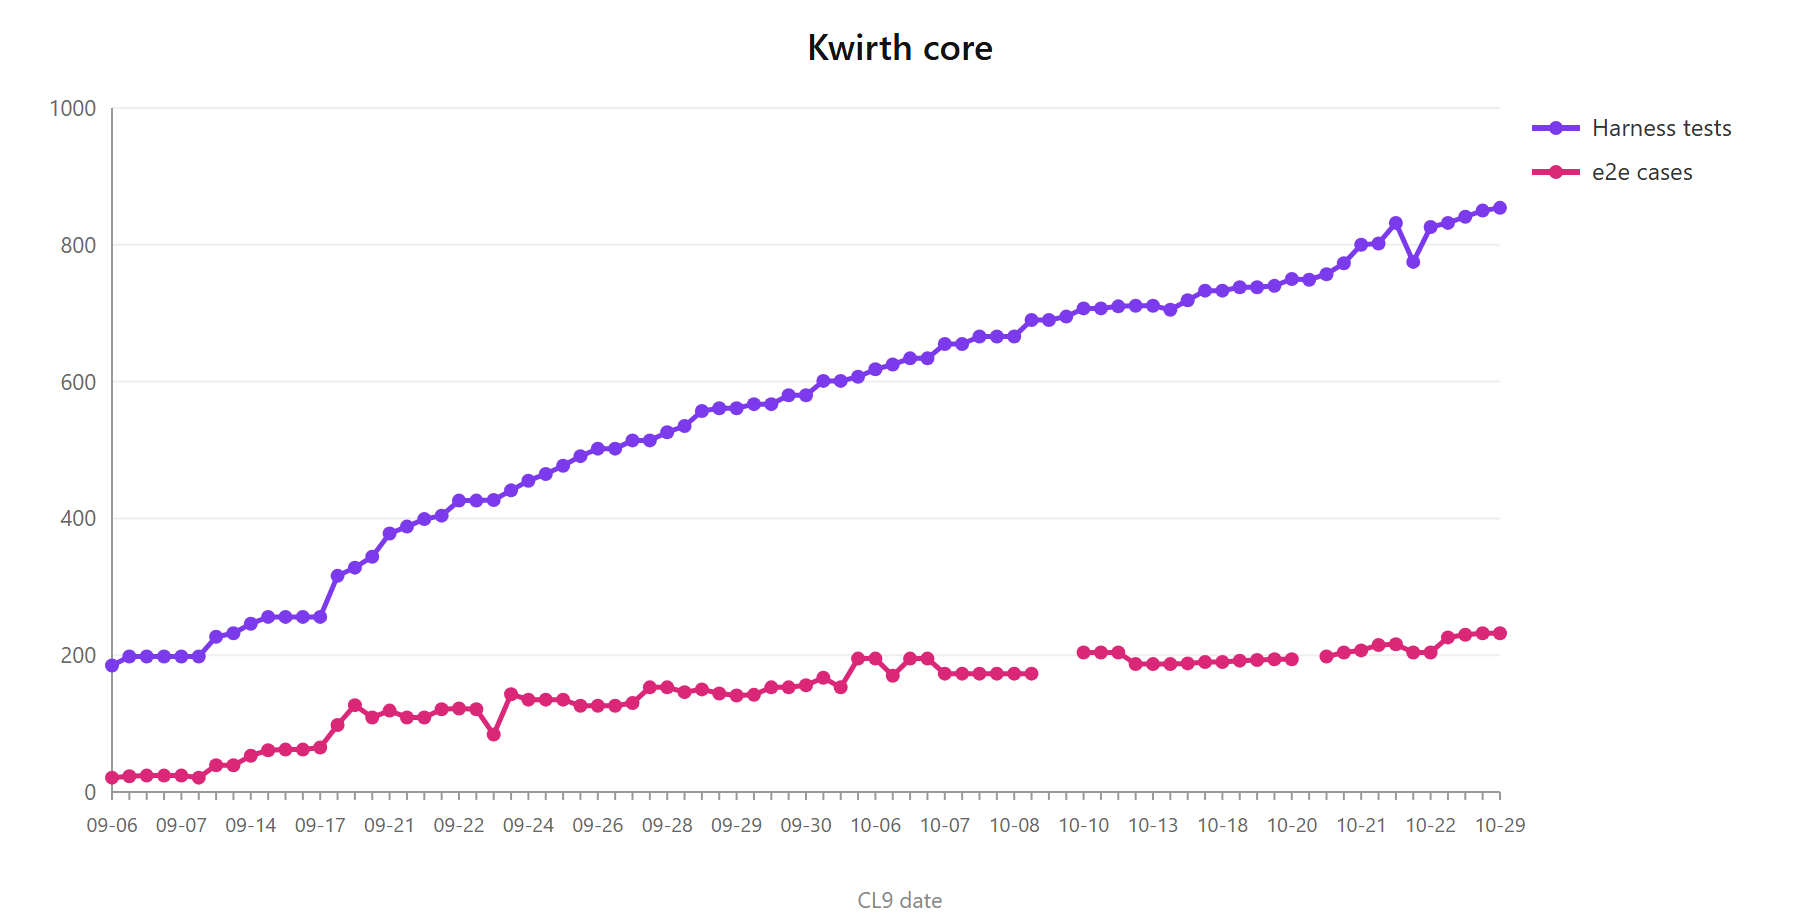
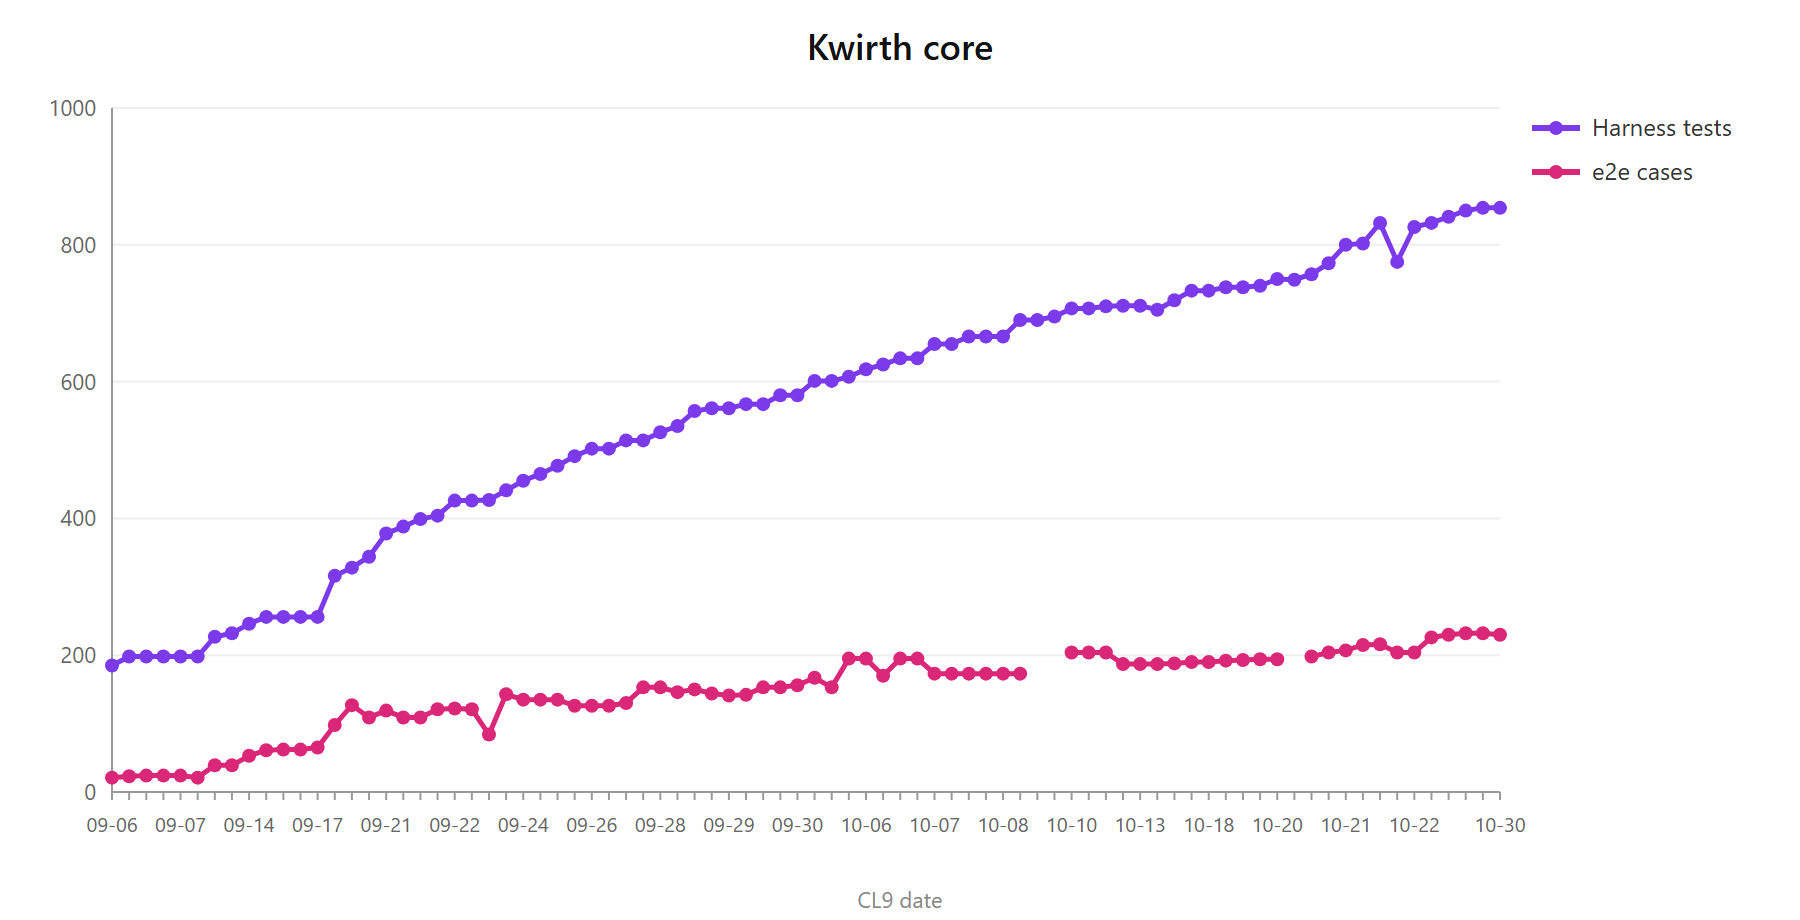
docs(qa): la fila del CL9 y los dos PNG
De 1,7 h a 37,5 min, 201 casos ejecutados, 0 fallos y 0 sin ejecutar (eran 12).
60 specs y 230 casos: los dos que faltan son los de webhooks, que se fueron al
repo de su artefacto.

La nota es el exit code que mentia: un describe.serial cuyo primer test falla por
una precondicion del entorno deja los demas en 'did not run', y eso no cuenta
como fallo. Faltaban diez extensiones en kwirth-dev.json y seis ficheros enteros
—42 casos— no se ejecutaban nunca.

En pendientes, los tres flaky de esta corrida: broken-extension, cluster-flavour
y el primer test de nettools-channel. Pasan en el reintento y no estan
explicados; anotados, que un flaky callado es una trampa para el siguiente.

diff --git a/docs/qa/test-metrics-history.md b/docs/qa/test-metrics-history.md
@@ -21,6 +21,14 @@
 
 ## Pendiente sobre la propia suite
 
+- **Tres flaky en la corrida del e2e con sesión compartida** (2026-10-30): `broken-extension`,
+  `cluster-flavour` y el primer test de `nettools-channel` fallan el primer intento y pasan el
+  reintento. No son rojos —la corrida sale con exit 0— pero tampoco están explicados, y aparecen justo
+  en la primera corrida con la página compartida entre ficheros, así que lo primero que hay que
+  descartar es que sea eso: los tres se ejecutan después de otros, y `broken-extension` y
+  `cluster-flavour` son de los que abren su **propia** página, lo que apuntaría más bien a carga de la
+  máquina que a contaminación. El de `nettools` cae en el click sobre el último combobox del diálogo de
+  ADD, que es el que repinta con cada elección.
 - ~~**`help-popup` falla en la corrida completa y pasa en solitario.**~~ 🔴 **Atribuido a la causa
   equivocada durante semanas.** Se dio por contaminación entre tests —estado que deja un spec anterior—
   y lo que había era que **`login()` esperaba un rato FIJO**: un `waitForTimeout(1500)` tras pulsar OK.
@@ -30,8 +38,12 @@
   ahí y no en solitario — de donde salió la teoría de la contaminación.
   **Corregido el 2026-10-29**: `login()` espera a que la barra superior exista y a `networkidle`, y
   `openMenu`/`clickMenuItem`/`clickExtensionMenuItem` esperan a que el elemento esté visible y
-  habilitado con un minuto de margen. ⚠ **No está confirmado en una corrida completa**: se verificó con
-  `help-popup` + 2 specs, no con los 62. Queda por comprobar si los dos de abajo eran lo mismo.
+  habilitado con un minuto de margen. ✅ **Confirmado en corrida completa el 2026-10-30**: `help-popup`
+  pasa con los 62 por primera vez de lo que hay registrado. Los dos de abajo son del **harness del
+  back**, así que no eran lo mismo y siguen abiertos.
+  **Y faltaba la otra mitad (2026-10-30)**: se arregló el FINAL de `login()` y el principio se quedó con
+  los 15 s por defecto, así que el `fill` del campo *User* reventaba antes de que el diálogo existiera y
+  se llevaba el `beforeAll` —y con él, el fichero entero—. Ahora espera a que el campo esté.
 - **`webhookManager` › *tokens + configs survive a restart* falla A VECES en la corrida completa y pasa
   siempre en solitario** (visto el 2026-09-17, 4 pasadas sueltas en verde). Se anotó como «mismo patrón
   que `help-popup`: estado que deja otro test antes», y ahora que `help-popup` resultó ser **otra cosa**
@@ -63,10 +75,35 @@
   —; **(b)** extensiones que este dev no tiene instaladas: `config-bundle` (censor), `dce-api`,
   `dce-manager`, `dce-nettools`, `dce-xyflow`, `nettools-channel`, `idp-manager`, `webhooks`,
   `webhooks-manager` (jira), `broken-extension` (provider-debug). Para la (b) toca `test.skip()` con el
-  motivo cuando falte la extensión, no un `if`. Sin arreglar.
-- **La suite completa tarda ~15 minutos** (51 el 2026-10-11, con los timeouts de los rojos), y Playwright no
-  vuelca nada hasta el final, así que no se puede seguir el avance. Demasiado para usarla dentro del ciclo de
-  trabajo: hoy se acaba corriendo por grupos.
+  motivo cuando falte la extensión, no un `if`. ~~Sin arreglar.~~ **HECHO 2026-10-30, por el otro
+  camino**: en vez de saltarlas, se **instalan**. Un `test.skip()` deja el caso sin comprobar para
+  siempre en el único entorno donde se corre la suite, que es este; y el diagnóstico de 2026-10-11 ya
+  nombraba las mismas extensiones que seguían faltando dieciocho días después. Van al `kwirth-dev.json`
+  las diez que la suite necesita. Lo que **sí** queda como `test.skip()` es lo que depende de qué tenga
+  instalado *quien* corra la suite, no de qué necesita el test.
+- 🔴 **El exit code MENTÍA: 42 tests no se ejecutaban y la suite decía que todo bien** (visto el
+  2026-10-30). Un `describe.serial` cuya primera comprobación falla por una **precondición de entorno**
+  —*«censor debería estar instalado en el dev»*, *«the sample DCE must be installed»*— se lleva por
+  delante a todos los de detrás, que quedan como *did not run* y **no cuentan como fallo**. Un tercio
+  largo de la suite llevaba sin ejecutarse quién sabe cuánto. Corregido instalando lo que faltaba (ver
+  arriba), pero **el agujero sigue ahí**: la suite no avisa de que no se ha ejecutado. Conviene que el
+  cierre mire `did not run`, no solo `failed`.
+- ⚠ **Los dos specs de webhooks del repo PÚBLICO prueban artefactos de PAGO** (visto el 2026-10-30).
+  `webhooks.spec.ts` y `webhooks-manager.spec.ts` buscan *Jira Webhook*, y los dos únicos webhooks que
+  existen son `@iriaoperae/kwirth-webhook-jira` y `@iriaoperae/kwirth-webhook-gitlab-issues`, con el
+  manifest público (`webhooks/manifest.json`) a `[]`. Es el mismo problema que tuvo `kwirth-portability`,
+  del revés: lo de cada artefacto de pago vive en el repo de ese artefacto. De paso, el `displayName` ya
+  no es el que el spec busca: es *IRIA Jira Webhook*. **Sin decidir.**
+- **`extension-catalogs` empezó a fallar al instalar el webhook jira** (2026-10-30), con *«Webhooks: no
+  catalog entries»*. No estaba entre los rojos de la corrida anterior, así que no basta con decir que el
+  manifest público está vacío — algo cambió al añadirlo. **Sin diagnosticar.**
+- **`pinocchio-toolsets` y `nettools-channel`** quedan sin diagnóstico cerrado (2026-10-30). El segundo
+  mejoró al dar su propio plazo a `pickCombo`; el primero encadena `waitForTimeout` fijos (800, 1500,
+  4000 ms), que es el mismo antipatrón que causó lo de `login()` y acabará dando el mismo problema.
+- ~~**La suite completa tarda ~15 minutos**~~ **1,7 h el 2026-10-30** (51 min el 2026-10-11 y 59 min el
+  2026-10-29), y crece con cada extensión que se instala en el dev: el arranque de la aplicación se paga
+  una vez por fichero. Ya no es una herramienta del ciclo de trabajo, es una corrida de cierre. Lo que sí
+  se arregló es poder seguirla: va a `front/e2e/run.log` con `--reporter=list`, escribiendo por test.
 - ~~**Ningún spec regenera capturas sin querer.**~~ **HECHO 2026-09-07:** `capture-*.spec.ts` queda fuera de
   la corrida por defecto (`testIgnore`), como los privados. Escribían en `docs/_media/guide`, así que cada
   corrida completa modificaba imágenes de la guía sin que nadie lo pidiera; pasó dos veces en un mismo día
@@ -74,6 +111,7 @@
 
 | Fecha | Cierre | Harness | Cobertura (líneas / ramas / funcs) | e2e | Notas |
 |---|---|---|---|---|---|
+| 2026-10-30 | **La suite se arreglaba a sí misma**: una sesión para toda la corrida, el dev con lo que la suite necesita, y los rojos que eso destapó | **854** ✅ (850 pasan · 4 ⏭ · 0 ✗), sin cambios: no se tocó una línea del back | **86.71 % / 82.96 % / 83.33 %** (= / −0.02 / =) — el back está igual; la décima de ramas es ruido de qué módulos carga el harness | **60 specs · 230 casos** (−2 specs, −2 casos): los dos de webhooks se van al repo del artefacto de pago. La corrida pasa de **1,7 h a 37,5 min** y de **177 a 201** casos ejecutados, con **0 fallos** y **0 sin ejecutar** (eran 12) | 🔴 **El exit code MENTÍA: 42 tests no se ejecutaban y la suite decía que todo bien.** Un `describe.serial` cuyo primer test falla por una precondición del entorno deja los demás en `did not run`, y eso **no cuenta como fallo**: faltaban diez extensiones en `back/kwirth-dev.json` (censor, pinocchio, nettools, provider-debug, el provider business, el webhook jira, los dos logins, dos DCE y los docs de pinocchio) y seis ficheros enteros no corrían nunca. Añadidas, aparecieron los rojos que llevaban meses tapados. 🔴 **Y la mitad de la corrida era arrancar la misma aplicación una y otra vez**: cargar el bundle de CRA, el login y esperar a `networkidle` cuesta 45-60 s y crece con cada extensión instalada, y se pagaba **por fichero**. Un fixture de ámbito `worker` (`tests/fixtures.ts`) la arranca **una vez** y la heredan los 17 specs que pueden; los que prueban el propio arranque, los que entran por otra URL y los que espían las peticiones iniciales siguen abriendo la suya, y eso está escrito en el fixture con el motivo de cada uno. El `limpia` automático que usa montag **no transfiere**: media docena de gestores del core abren su diálogo en el `beforeAll` y lo recorren a lo largo de varios tests, así que un barrido por test les cierra en la cara lo que están mirando — la limpieza vive en el `afterAll` de cada fichero. 📌 Cuatro rojos, y **ninguno era del producto**: `nettools` clicaba un cluster `aria-disabled` (el stack ECS, parado) y agotaba el plazo contra algo que no iba a habilitarse; `pinocchio-toolsets` daba por hecho que el entorno ya tenía triggers configurados —ahora crea el suyo y sale por Cancel— y además denunciaba `get_workload_config_refs` como ofrecida sin estarlo, porque el nombre aparece **dentro de la descripción** de `get_rollout_history`; y `extension-catalogs` buscaba un botón rotulado «Install», que es lo que dice el tooltip **solo si la entrada es instalable** — con los dos webhooks montados desde dev el diálogo pintaba sus tarjetas y el test decía que no había catálogo. Ahora la tarjeta se busca por el **icono** del botón y el catálogo se contrasta con lo que resuelve `/core/marketplace/<tipo>`, que distingue un manifest vacío de un back que falla. 📌 Dos specs de webhooks probaban un artefacto **de pago** desde el repo público: se van a `webhooks/jira/e2e/`, con su propia suite aislada. Allí destapan que el artefacto tiene **dos nombres visibles** (`displayName` «IRIA Jira Webhook» vs manifest «Jira Webhook»), pendiente de unificar. Los 4 ⏭ son de SQL, ajenos |
 | 2026-10-29 | **Una sola puerta, y el import REEMPLAZA**: fuera los Import/Export de los diálogos de senders, webhooks y plugins | **854** ✅ (850 pasan · 4 ⏭ · 0 ✗), **+4**: el webhook reemplaza la lista entera, un webhook no registrado no aplica nada y lo dice, el IdP borra las instancias de su conector que no vengan, y NO toca las de los demás | **86.71 % / 82.98 % / 83.33 %** (−0.01 / +0.03 / −0.07) — el reemplazo no añade código, lo quita | **62 specs · 232 casos**, sin cambios de número: lo que cambia es lo que afirman. `senders-manager` pasa a exigir que Export e Import **no estén**, y `plugins-manager` que la rueda esté **apagada** y diga por qué | 🔴 **Había cuatro puertas para sacar configuración a un fichero, y una filtraba.** El Export del gestor de configuraciones de senders y webhooks (`ConfigListDialog`) serializaba las configuraciones **tal cual**: sin casilla de credenciales y sin aviso, exportar las de SMTP dejaba la contraseña del servidor de correo **en claro** en la carpeta de descargas. Cinco senders tienen campos `password`. Eliminado, con lo que la fuga se cierra: por el bundle salen vacías, porque los trece senders declaran su esquema. La segunda era `ConfigJsonDialog`, el editor de JSON crudo de los plugins, que **documentaba existir** para «llevar la misma configuración de un Kwirth a otro sin volver a teclearla» — es decir, un sustituto del bundle escrito antes de que el bundle existiera; **ningún plugin declara `configSchema`**, así que ni se abría. Eliminado. La tercera, el gear de plugins, queda apagado: el día que uno necesite configuración la recupera por el mecanismo de las demás extensiones (esquema + formulario), no con una caja propia. La cuarta, el Export de `http-pull-push`, **se queda**: tiene casilla y aviso, es duplicidad sin peligro. 🔴 **Y el import REEMPLAZA en todas partes.** Había dos semánticas: el sender sustituía la lista entera y el webhook añadía, así que el mismo fichero dejaba el sistema de dos formas distintas. Ahora lo que queda tras importar es exactamente lo que traía el fichero — también en el IdP, que nunca borraba. ⚠ Un webhook pierde el **token** de lo que se va, que es la URL por la que le llaman desde fuera: hay que repegarla. La única excepción, deliberada: una clave que el fichero **no menciona** no se toca, porque callar no es pedir que se borre. 📌 De propina, un fallo del core que destapó un e2e: `ExtensionManagerDialog` **ocultaba** la rueda cuando la familia no tiene diálogo, contradiciendo su propio comentario (*«visible and disabled with the reason, never hidden»*) y dejando justo el hueco que ese comentario existe para evitar. Los 4 ⏭ son de SQL, ajenos |
 | 2026-10-29 | **Dos fuentes, dos campos**: el bundle deja de fusionar lo que guarda el core con lo que guarda la extensión, y un estado nuevo para lo que viaja a medias (`kwirth-common@0.5.77`, formato de bundle **2**) | **850** ✅ (846 pasan · 4 ⏭ · 0 ✗), **+9** neto: **+14** en `configBundle` y **−5** de `combine`, retirados de `coreManagedConfig` porque esa función ya no existe. Los 14: cada fuente a su campo sin mezclarse; sin instancia viva el campo propio queda **sin poner** (no `{}`, que en el destino se lee como una configuración vaciada a propósito); si revienta una parte sale la otra —en el export y en el import—; un formato 1 plano se lee como parte del **core**; y que en formato 2 manda la **versión del fichero**, no la forma del contenido | **86.72 % / 82.95 % / 83.40 %** (+0.06 / +0.18 / +0.10) — sube porque `normalizeEntry` y el reparto de las dos partes viven en `tools/`, que el harness sí carga | **62 specs · 232 casos** (+2 en `kwirth-portability`): que cada entrada **separa** lo del core de lo de la extensión y que ninguna viaja vacía, y que lo que no se puede preguntar entero se exporta **avisando**. Además, `formatVersion` pasa de 1 a 2 en el caso que ya existía. Lo de cada artefacto de pago **no vive aquí**: siete specs, uno en el repo de cada uno | 🔴 **El e2e estaba en verde sin comprobar nada.** `combine()` envolvía lo de la extensión dentro de `own`, el spec leía `entry.config.models`, y como todas sus aserciones eran `toBeUndefined()` sobre un objeto que no era el que llevaba los datos, **pasaban con la configuración vacía**: iter y sugarless llevaban semanas diciendo que sí. Al mirar el campo correcto saltó además que el `dist` de iter era del **26 de octubre** y no llevaba `exportConfig` siquiera. 🔴 Y detrás había un bug de verdad: la entrada del bundle **cambiaba de forma** según quién implementara qué —`{installConfig}` sin parte propia, `{core, own}` con ella—, así que un fichero exportado antes de que las extensiones adoptaran el contrato se leía hoy como si su única parte fuera de la extensión, y **la configuración de instalación se perdía sin una palabra**. Ahora `coreConfig` y `config` son dos campos hermanos, `combine()` desaparece, y `normalizeEntry` convierte el formato 1 decidiendo **por la versión del fichero y no por la forma del contenido** (un v2 con solo parte propia es indistinguible de un v1 plano, y adivinar intercambia las dos partes en silencio). Lo tercero es `PARTIAL`: sin instancia viva el core devolvía igualmente su interlocutor, así que la extensión entraba en el fichero, el diálogo la pintaba disponible y dentro iba solo la instalación — en excubitor, sus ocho áreas. Se exporta igual (dejarla fuera perdería también lo del core) pero se dice, en ámbar, en los dos diálogos. ⚠ Solo se marca a quien **puede** tener instancia (canales y providers): un IdP o un toolset guardan su configuración en el core por diseño y pintarlos en ámbar para siempre enseñaría a ignorar el aviso que sí importa. Los 4 ⏭ son de SQL, ajenos |
 | 2026-10-28 | **Una sola puerta al almacén de IA**: fuera el Import/Export de los diálogos de AI config, y el bundle cumpliendo su propia regla (`kwirth-common-ai@0.5.77`) | **841** ✅ (837 pasan · 4 ⏭ · 0 ✗), **+9**: `redactSharedAi` entero — con credenciales sale tal cual; sin ellas los providers **viajan** con la key vacía y conservando tipo, endpoint, costes y límites; ningún modelo saca su key; no muta lo leído de k8s; y listas vacías. En `common-ai` siguen **61** ✅: quitar botones no cambia lógica | **86.66 % / 82.77 % / 83.30 %** (+0.05 / +0.06 / +0.09) — sube porque la redacción sale de `index.ts`, que el harness no carga, a un `tools/` que sí | **62 specs · 230 casos** (+4, todos en `kwirth-portability`), y la spec entera en verde (8/8, 4.8 min): los providers viajan sin credenciales con la key vacía, ningún modelo lleva la suya en claro, con la casilla marcada viaja todo, y los **dos diálogos de IA ya no tienen Import ni Export** | Los diálogos tenían su propio Import/Export, de antes del bundle: una **segunda puerta al mismo configmap y al mismo secret**, y ya había divergido — el export local escribía a mano una copia reducida del provider (`name`, `type`, `key`, `endpoint`), así que los precios y los límites del 2026-10-26 dejaron de viajar sin avisar, y el import sustituía la lista entera desde un fichero sin validar con un `catch {}` mudo. 🔴 Quitarlos obligó a arreglar antes lo que el bundle **incumplía de su propia regla** (`ConfigBundle.ts`: un secreto viaja VACÍO, nunca omitido), porque si no el reemplazo sí perdía cosas: `readSharedAi` **omitía los providers enteros** sin credenciales —no ocultaba las keys, perdía nombres, tipos, endpoints, precios y límites, y en el destino ni se tocaba el secret porque no llegaba nada— y entregaba los **modelos en crudo**, así que uno con key propia la sacaba en claro en un fichero con la casilla desmarcada a propósito. Con la casilla marcada las keys viajan y no hay nada que defender: es lo que se ha pedido. La redacción sale a `back/src/tools/SharedAiPortability.ts`, pura y por tanto testeable — vivía inline en `index.ts` y el harness solo tenía un doble. Los 4 ⏭ son de SQL, ajenos |
